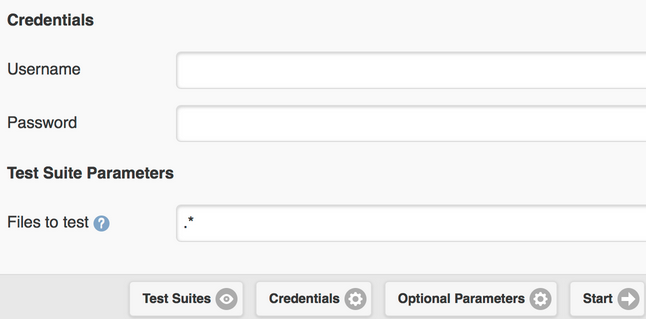
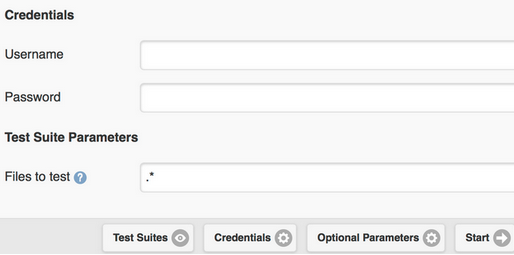
fixing screenshot

diff --git a/doc/quickstart/ETF_quickstart.rst b/doc/quickstart/ETF_quickstart.rst
@@ -88,7 +88,7 @@ This information:
 
 To start a Test Run, a Test Suite must be selected with a click on the use flip switch on the right-hand side.
 
-.. image:: /images/projects/ETF/etf-test-suite-selection-3.png
+.. image:: /images/projects/ETF/ETF_screenshot.png
 
 A Start button appears once at least one Test Suite is selected.
 
